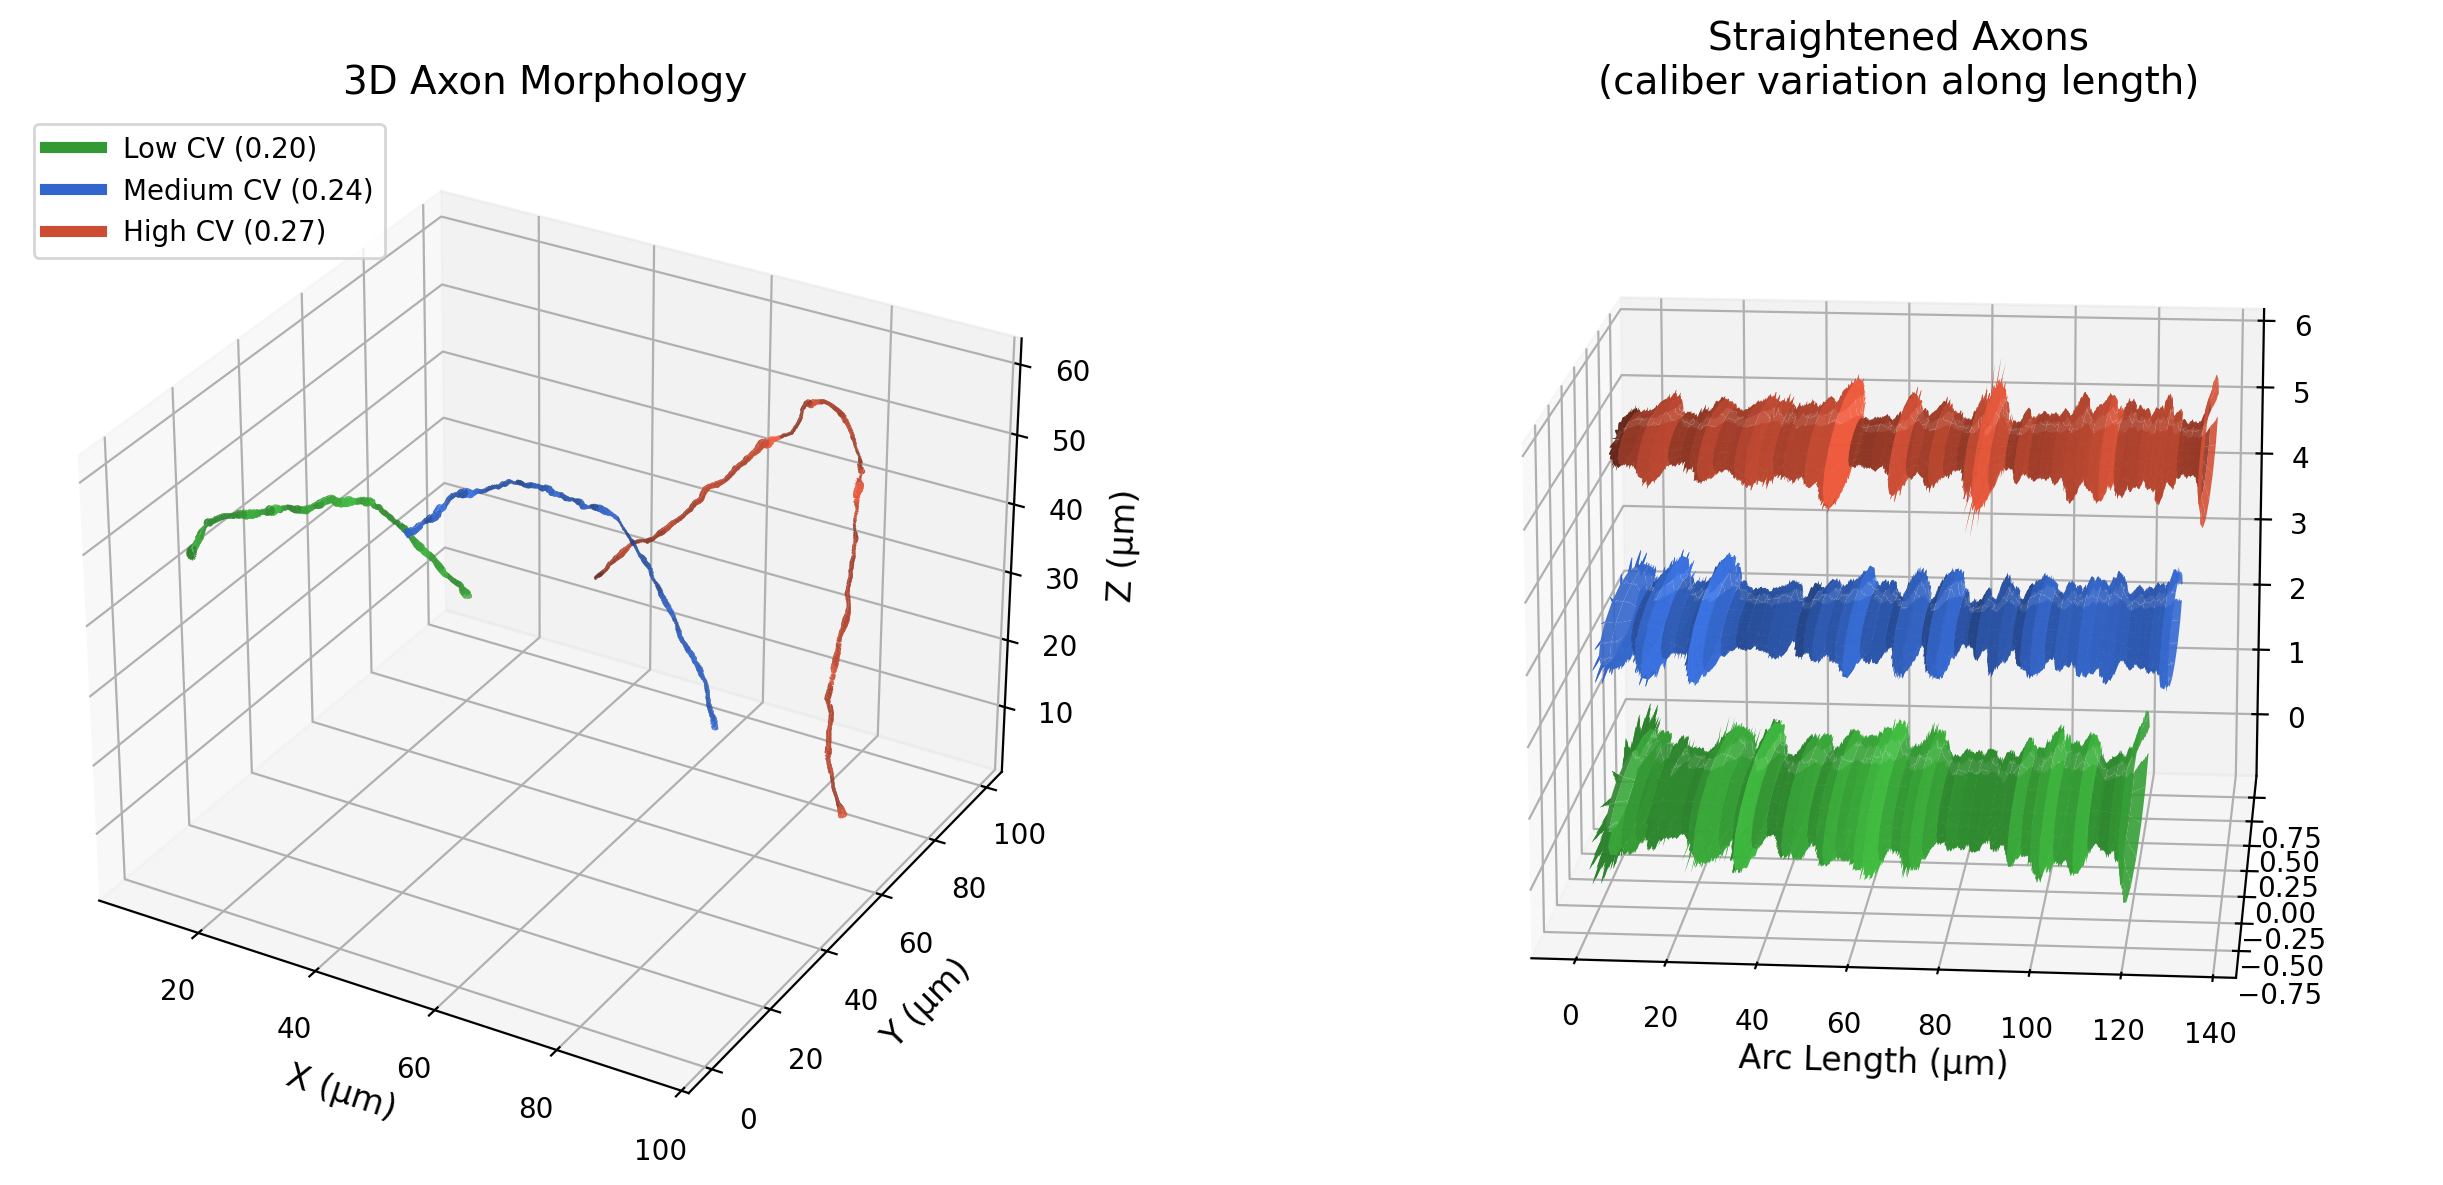
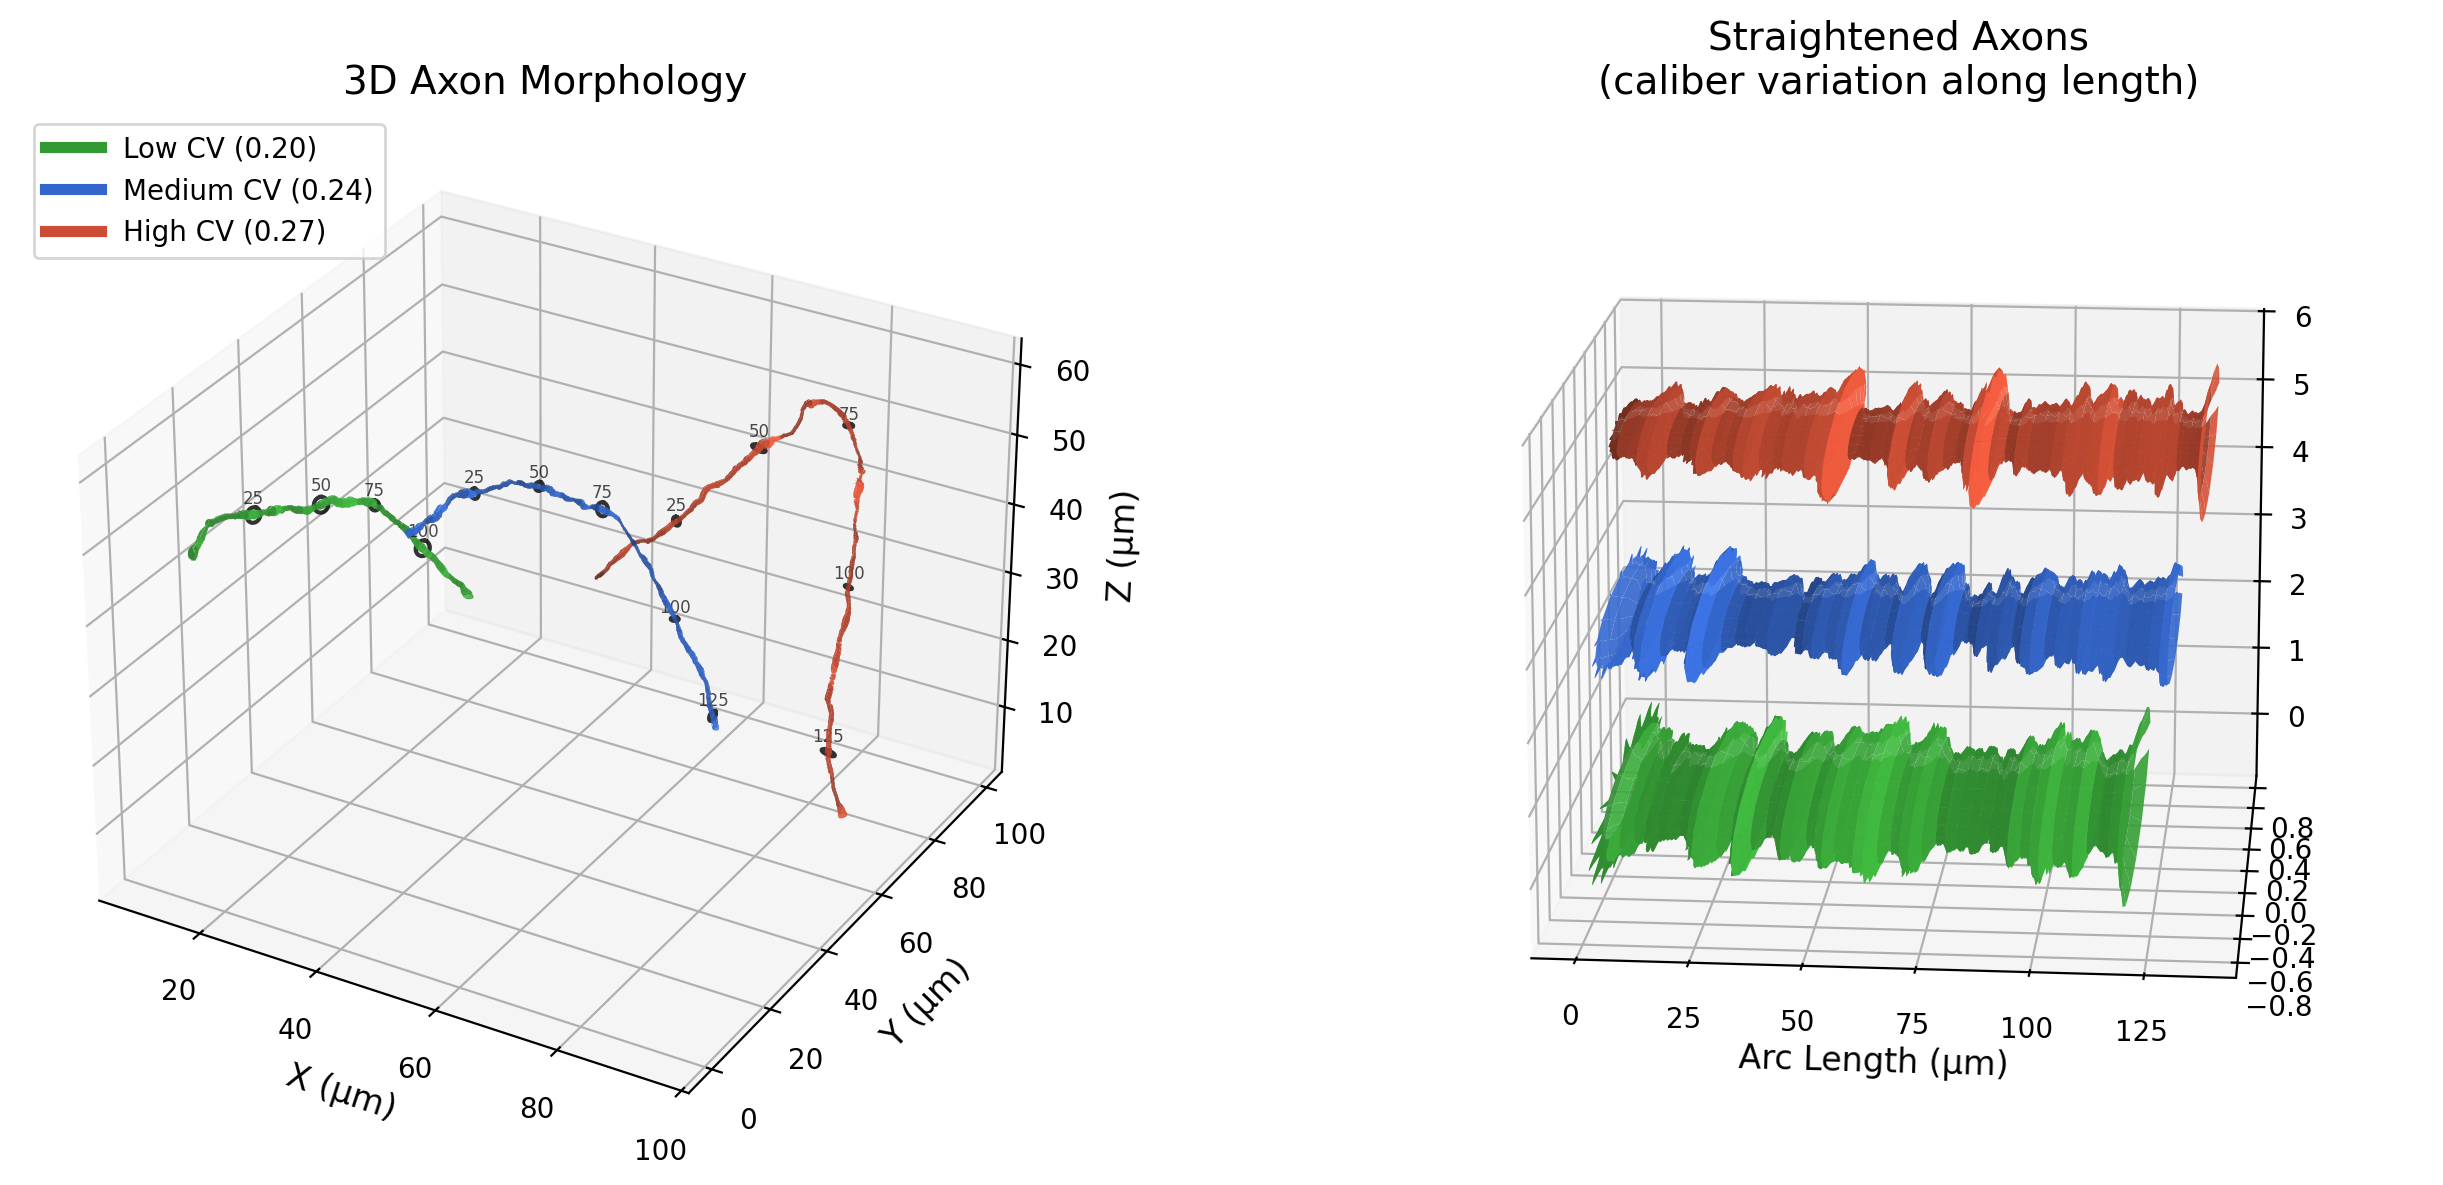
Add cross-section markers and radius smoothing to representative axon plot
- Add cross-section circles at 25 μm intervals on 3D axon visualization
- Apply light moving-average smoothing (window=5) to straightened view
- Set x-axis ticks at 25 μm intervals to match cross-section positions
- Remove outdated lm_representative_axons.png figure

🤖 Generated with [Claude Code](https://claude.com/claude-code)

diff --git a/examples/plot_representative_axons.py b/examples/plot_representative_axons.py
@@ -196,13 +196,43 @@ def generate_tube_mesh(skeleton: np.ndarray, radii: np.ndarray,
     return X, Y, Z, R
 
 
-def straighten_axon(skeleton: np.ndarray, radii: np.ndarray) -> Tuple[np.ndarray, np.ndarray]:
+def smooth_radii(radii: np.ndarray, window_size: int = 3) -> np.ndarray:
+    """
+    Apply moving average smoothing to radius profile.
+
+    Args:
+        radii: (N,) array of radii
+        window_size: Size of the smoothing window (must be odd)
+
+    Returns:
+        Smoothed radii array
+    """
+    if window_size <= 1 or len(radii) < window_size:
+        return radii
+
+    # Ensure window_size is odd
+    if window_size % 2 == 0:
+        window_size += 1
+
+    # Use numpy convolution for moving average
+    kernel = np.ones(window_size) / window_size
+    # Pad edges to preserve length
+    pad_width = window_size // 2
+    padded = np.pad(radii, pad_width, mode='edge')
+    smoothed = np.convolve(padded, kernel, mode='valid')
+
+    return smoothed
+
+
+def straighten_axon(skeleton: np.ndarray, radii: np.ndarray,
+                    smooth_window: int = 1) -> Tuple[np.ndarray, np.ndarray]:
     """
     Straighten an axon by computing arc length along the skeleton.
 
     Args:
         skeleton: (N, 3) array of skeleton points
         radii: (N,) array of radii
+        smooth_window: Window size for smoothing radii (1 = no smoothing)
 
     Returns:
         Tuple of (arc_lengths, radii)
@@ -211,6 +241,10 @@ def straighten_axon(skeleton: np.ndarray, radii: np.ndarray) -> Tuple[np.ndarray
     diffs = np.diff(skeleton, axis=0)
     segment_lengths = np.sqrt(np.sum(diffs**2, axis=1))
     arc_lengths = np.concatenate([[0], np.cumsum(segment_lengths)])
+
+    # Optionally smooth the radii
+    if smooth_window > 1:
+        radii = smooth_radii(radii, smooth_window)
 
     return arc_lengths, radii
 
@@ -244,6 +278,74 @@ def generate_straight_tube_mesh(arc_lengths: np.ndarray, radii: np.ndarray,
             R[i, j] = radii[i]
 
     return X, Y, Z, R
+
+
+def get_cross_section_at_arc_length(skeleton: np.ndarray, radii: np.ndarray,
+                                     target_arc_length: float,
+                                     n_circle_points: int = 32,
+                                     scale_factor: float = 1.0) -> Tuple[np.ndarray, np.ndarray, np.ndarray, float]:
+    """
+    Get cross-section circle at a specific arc length along the axon.
+
+    Args:
+        skeleton: (N, 3) array of skeleton points
+        radii: (N,) array of radii
+        target_arc_length: Target arc length position in μm
+        n_circle_points: Number of points for the circle
+        scale_factor: Scale factor for the circle radius (for visualization)
+
+    Returns:
+        Tuple of (X, Y, Z, radius) for the circle points, or None if target is beyond axon length
+    """
+    # Compute arc lengths
+    diffs = np.diff(skeleton, axis=0)
+    segment_lengths = np.sqrt(np.sum(diffs**2, axis=1))
+    arc_lengths = np.concatenate([[0], np.cumsum(segment_lengths)])
+
+    if target_arc_length > arc_lengths[-1]:
+        return None
+
+    # Find the segment containing target arc length
+    idx = np.searchsorted(arc_lengths, target_arc_length) - 1
+    idx = max(0, min(idx, len(skeleton) - 2))
+
+    # Interpolate position and radius
+    t = (target_arc_length - arc_lengths[idx]) / (arc_lengths[idx + 1] - arc_lengths[idx] + 1e-10)
+    center = skeleton[idx] + t * (skeleton[idx + 1] - skeleton[idx])
+    radius = radii[idx] + t * (radii[idx + 1] - radii[idx])
+
+    # Apply scale factor for visualization
+    display_radius = radius * scale_factor
+
+    # Get tangent direction
+    tangent = skeleton[idx + 1] - skeleton[idx]
+    tangent = tangent / (np.linalg.norm(tangent) + 1e-10)
+
+    # Find perpendicular vectors
+    if abs(tangent[0]) < 0.9:
+        ref = np.array([1, 0, 0])
+    else:
+        ref = np.array([0, 1, 0])
+
+    perp1 = ref - np.dot(ref, tangent) * tangent
+    perp1 = perp1 / (np.linalg.norm(perp1) + 1e-10)
+    perp2 = np.cross(tangent, perp1)
+    perp2 = perp2 / (np.linalg.norm(perp2) + 1e-10)
+
+    # Generate circle points
+    theta = np.linspace(0, 2 * np.pi, n_circle_points, endpoint=True)
+    X = np.zeros(n_circle_points)
+    Y = np.zeros(n_circle_points)
+    Z = np.zeros(n_circle_points)
+
+    for j, t in enumerate(theta):
+        offset = display_radius * (np.cos(t) * perp1 + np.sin(t) * perp2)
+        point = center + offset
+        X[j] = point[2]  # X axis (skeleton coord index 2)
+        Y[j] = point[1]  # Y axis (skeleton coord index 1)
+        Z[j] = point[0]  # Z axis (skeleton coord index 0)
+
+    return X, Y, Z, radius
 
 
 def radius_to_color(radii: np.ndarray, base_color: np.ndarray,
@@ -319,8 +421,22 @@ def plot_representative_axons(data: dict, indices: Tuple[int, int, int],
         ax_3d.plot_surface(X, Y, Z, facecolors=colors, shade=False,
                            antialiased=True, linewidth=0)
 
-        # Generate straightened tube
-        arc_lengths, straight_radii = straighten_axon(skeleton, radii)
+        # Add cross-section circles at regular intervals (25, 50, 75, ... μm)
+        max_arc_length = np.sum(np.sqrt(np.sum(np.diff(skeleton, axis=0)**2, axis=1)))
+        cross_section_positions = np.arange(25, max_arc_length, 25)  # μm
+        for pos in cross_section_positions:
+            # Use scale_factor to make cross-sections more visible
+            result = get_cross_section_at_arc_length(skeleton, radii, pos, scale_factor=2.0)
+            if result is not None:
+                Xc, Yc, Zc, _ = result
+                # Draw circle outline
+                ax_3d.plot(Xc, Yc, Zc, color='black', linewidth=1.5, alpha=0.8)
+                # Add small annotation
+                ax_3d.text(Xc.mean(), Yc.mean(), Zc.max() + 0.3,
+                           f'{int(pos)}', fontsize=6, ha='center', va='bottom', alpha=0.7)
+
+        # Generate straightened tube (with slight smoothing for cleaner visualization)
+        arc_lengths, straight_radii = straighten_axon(skeleton, radii, smooth_window=5)
         # Offset each axon vertically for visibility
         offset = i * (r_max * 3)
         Xs, Ys, Zs, Rs = generate_straight_tube_mesh(arc_lengths, straight_radii)
@@ -349,6 +465,10 @@ def plot_representative_axons(data: dict, indices: Tuple[int, int, int],
     ax_straight.set_zlabel('', fontsize=font_settings['label_size'])
     ax_straight.set_title('Straightened Axons\n(caliber variation along length)',
                           fontsize=font_settings['title_size'], fontweight=font_settings['weight'])
+
+    # Set x-axis ticks at 25 μm intervals to match cross-sections
+    x_max = ax_straight.get_xlim()[1]
+    ax_straight.set_xticks(np.arange(0, x_max + 1, 25))
 
     # Set viewing angle for straightened view (side view - looking along Y axis)
     ax_straight.view_init(elev=15, azim=-85)
